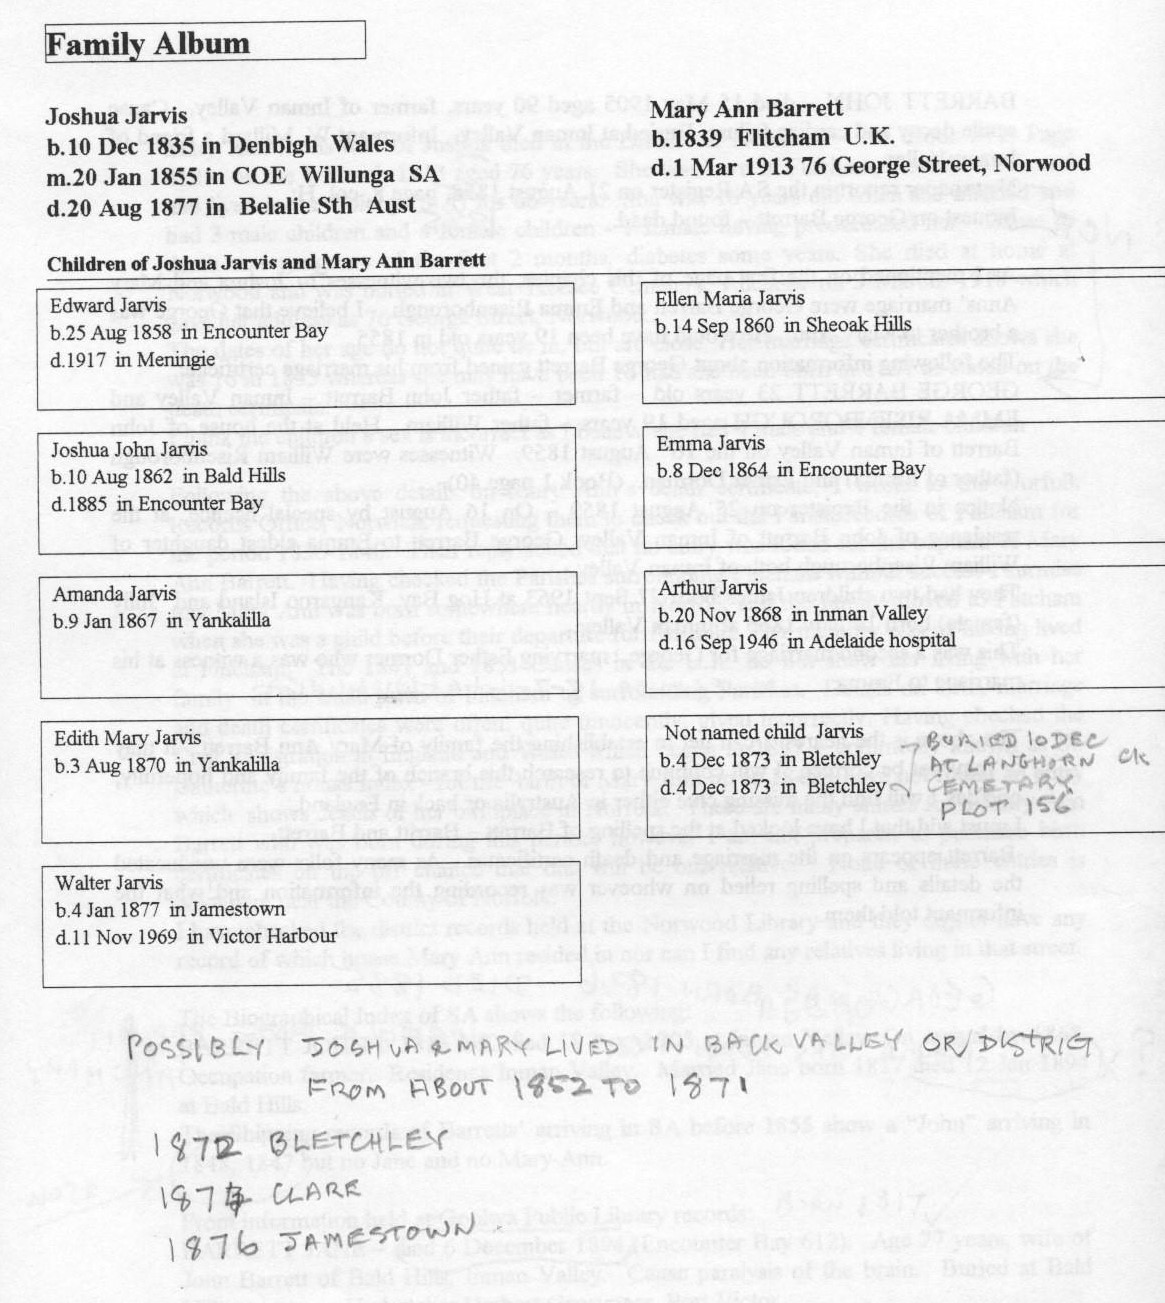
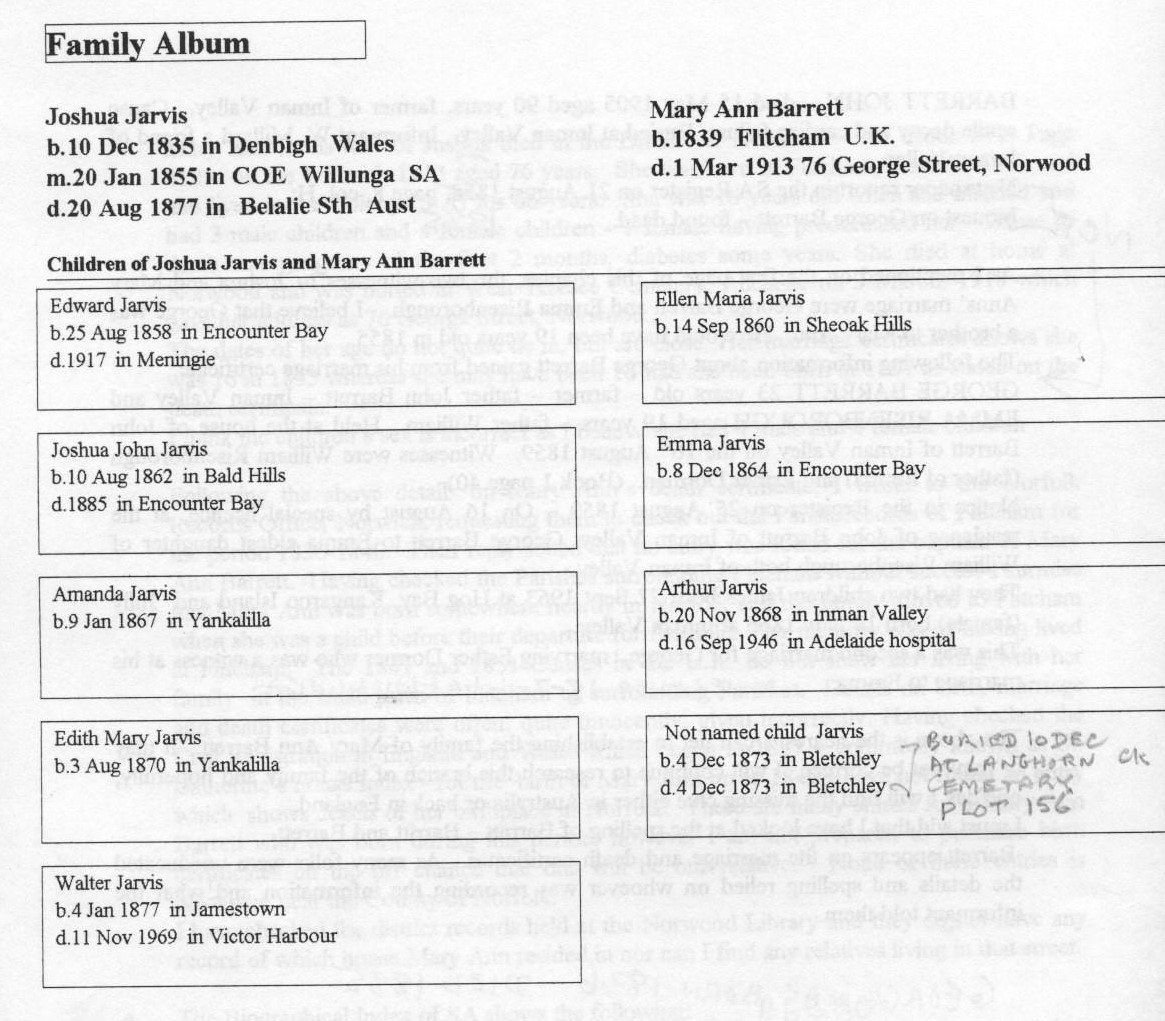
Beryl book update

diff --git a/content/beryl-jarvis-book.html b/content/beryl-jarvis-book.html
@@ -529,7 +529,7 @@ The following entry in the "Biographical Index of S.A. 1836-1885. Vol 2" reads a
 <br><br>
 JARVIS JOSHUA J. born c 1832 Norfolk England, died 20-08-1877, Jamestown, S.A. Arrived 1851 "Reliance" Port Adelaide, occ. Farmer, res. Encounter Bay, Clare, Jamestown. Rel. C. England. Married Mary Ann Barrett born c 1839. Children: Edith (1858-1885) : Ellen Maria May (Phillips) 1860- ) : Joshua (1862-1885) : Emma (1864- ) : Arthur (1860-1946) : Walter (1877).
 <br><br>
-As these entries are sometimes submitted by family members, I wrote to the S.A. Genealogy and Heraldry Society to see if I could find out where their information originated. Their reply was that the information had not been submitted by a contributor, but details had been extracted from records held, e.g. the Australian Dictionary of Biographies and various other S.A. Records. Joshua was born in Denbigh, Wales in 1836, not in 1832 in Norfolk as stated. They have omitted Edward b 1858 and Amanda b 1867 plus the actual dates of several of the children sre incorrect. (It is recognised that many entries in these books are not correct, however, it is a wonderful guide). Better and more accessible records have since become available.
+As these entries are sometimes submitted by family members, I wrote to the S.A. Genealogy and Heraldry Society to see if I could find out where their information originated. Their reply was that the information had not been submitted by a contributor, but details had been extracted from records held, e.g. the Australian Dictionary of Biographies and various other S.A. Records. Joshua was born in Denbigh, Wales in 1836, not in 1832 in Norfolk as stated. They have omitted Edward b 1858 and Amanda b 1867 plus the actual dates of several of the children are incorrect. (It is recognised that many entries in these books are not correct, however, it is a wonderful guide). Better and more accessible records have since become available.
 </p>
 
 <br>
@@ -588,6 +588,9 @@ The above is the nearest I can get to establishing the family of Mary Ann Barret
 <img  src="beryl-jarvis-book/images/family-album-2.jpg" width=55% ALT="family-album-2.jpg">
 </a>
 </center>
+Notes by Keith Jarvis :<br>
+Possibly Joshua and Mary lived in Back Valley or district from about 1852 to 1871.<br>
+1872 - Bletchley, 1874 - Clare, 1876 - Jamestown.
 </p>
 
 <br>
@@ -1206,7 +1209,19 @@ would race down to the cell walls and back again. The prize being a bag of lolli
 <b>ABORIGINES</b>
 <br><br>
 We'll never know how some of them lived, the old Aborigines. Some of our men used to chase after the women. They should have had more respect for their wives and left them alone. They used to camp in the sand hills, before that they camped where the Soldiers Gardens are. There were six to a dozen of them and their families in tents and humpies. Then they moved to the point at the mouth of the Inman River The government put three weather board houses on the Inman banks for them. They held Corroborees on the Crown Reserve in the early 1900's, dancing and clapping their hands and singing.
-<br><br>
+</p>
+
+<center>
+<a href="beryl-jarvis-book/images/Aborigines-in-camp_B-28967_2.jpg">
+<img  src="beryl-jarvis-book/images/Aborigines-in-camp_B-28967_2.jpg" width=65% ALT="Aborigines-in-camp_B-28967_2.jpg">
+</a>
+<br>
+Aborigines in camp at Victor Harbor
+<br>
+<a href="https://collections.slsa.sa.gov.au/resource/B+28967">State Library of S.A.</a>
+</center>
+
+<p>
 Poor old things they paddled about in their bare feet summer and winter, no wonder so many of them died. Some of them contracted tuberculosis. Each week they went down to the police station to collect their rations from the government. People were kind to them, giving them cups of tea and something to eat.
 <br><br>
 One lady working in her front garden - behind a hedge - heard one of them say “We'll go in here but we probably won't get much, they're mean buggers”. Sometimes you'd see the men in the sand hills, they'd get a bottle or a white man would buy them one. They were not allowed to have alcohol in those days.
@@ -1217,7 +1232,19 @@ employed by the larger households whilst many taught the local children to swim.
 They went to school with the local children and were good scholars. The boys were good footballers and cricketers. Many children were educated at Point MacLeay Mission.
 <br><br>
 Harry Butler flew his plane and landed at Mount Breckan on the golf course by the river. That was New Year's Day 1920. In 1921 someone landed a plane on Granite Island. The pilot gave rides for 10/- as a fund raiser.
-<br><br>
+</p>
+
+<center>
+<a href="beryl-jarvis-book/images/Captain-Harry-Butlers-aircraft_B-56050_2.jpg">
+<img  src="beryl-jarvis-book/images/Captain-Harry-Butlers-aircraft_B-56050_2.jpg" width=65% ALT="Captain-Harry-Butlers-aircraft_B-56050_2.jpg">
+</a>
+<br>
+Captain Harry Butler's aircraft at Victor Harbor
+<br>
+<a href="https://collections.slsa.sa.gov.au/resource/B+56050">State Library of S.A.</a>
+</center>
+
+<p>
 The Depression saw hard times with so many people out of work. If you didn't work you starved - it is all so different now.
 <br><br>
 During World War II the RAAF took over Mount Breckan. The foot bridge was opened
@@ -1743,8 +1770,33 @@ Keith fought in the Middle East and after swimming in contaminated water near Ca
 <img  src="beryl-jarvis-book/images/The-Vida_scan.jpg" width=55% ALT="The-Vida.jpg">
 </a>
 <br>The Vida<br>
+<a href = "beryl-jarvis-book/images/The-Vida_back.jpg">Click here to see the back</a>
 </center>
 </p>
+
+<br><br>
+
+<center>
+<a href="beryl-jarvis-book/images/Keiths-Boat-Postcard_scan.jpg">
+<img  src="beryl-jarvis-book/images/Keiths-Boat-Postcard_scan.jpg" width=55% ALT="Keiths-Boat-Postcard_scan.jpg">
+</a>
+<br>Keith's boat<br>
+<a href = "beryl-jarvis-book/images/Keiths-Boat-Postcard_back.jpg">Click here to see the back</a>
+<br>
+<br>Miss A James
+<br>Gladstone. 11/2/1917
+<br>Dear Auntie. I am sending this PC for your birthday.
+<br> This is Keith's boat with Harold, Reg, Allie Scott and myself on board.
+<br>You can also see part of the big ship that is here loading wheat.
+<br>Marj is sending Grannie a box of peaches for her birthday.
+<br>She will send you a parcel one day next week.
+<br>Harold and Marjorie went to town last Saturday and came back on Wednesday.
+<br>Mrs Scott ... after us. We are having lovely ... down here.
+<br>Got fish for dinner. Ask Aunty Ede if she would like some.
+<br>With love from Leslie.
+</center>
+</p>
+
 <br><br>
 
 <p>
@@ -1815,8 +1867,8 @@ Ern Wiliats OAM of Port Elliot was prompted to send in this photograph of the Vi
 
 <p>
 <center>
-<a href="beryl-jarvis-book/images/horsedrawn-tramway-at-Port-Elliot_B-59187.jpg">
-<img  src="beryl-jarvis-book/images/horsedrawn-tramway-at-Port-Elliot_B-59187.jpg" width=55% ALT="horsedrawn-tramway-at-Port-Elliot_B-59187.jpg">
+<a href="beryl-jarvis-book/images/horsedrawn-tramway-at-Port-Elliot_B-59187-Colorized.jpg">
+<img  src="beryl-jarvis-book/images/horsedrawn-tramway-at-Port-Elliot_B-59187-Colorized.jpg" width=55% ALT="horsedrawn-tramway-at-Port-Elliot_B-59187-Colorized.jpg">
 </a>
 <br><a href="">Horse drawn passenger tram No 21 at Port Elliot in the 1880's</a)
 <br>
@@ -1993,7 +2045,12 @@ Special thanks to Keith Jarvis for a loan of his father's personal military reco
 <br>Jarvis family christmas 1953<br>
 </center>
 </p>
-<br>
+Photo taken 20th December 1953 at Glenelg where Roy and Alice held a family Christmas Party.<br>
+Standing: Belle Jarvis, Shirley Sorensen (with child), Helen Brougham, Shirley Jarvis (behind),<br>
+Lily Stennett, Lorna Scott, Alice Jarvis (at rear), Marg Milkins.<br>
+Children: Lynn Jarvis far right, Kerryl Sorensen far left, others to be identified.
+
+<br><br>
 
 <p>
 <center>
